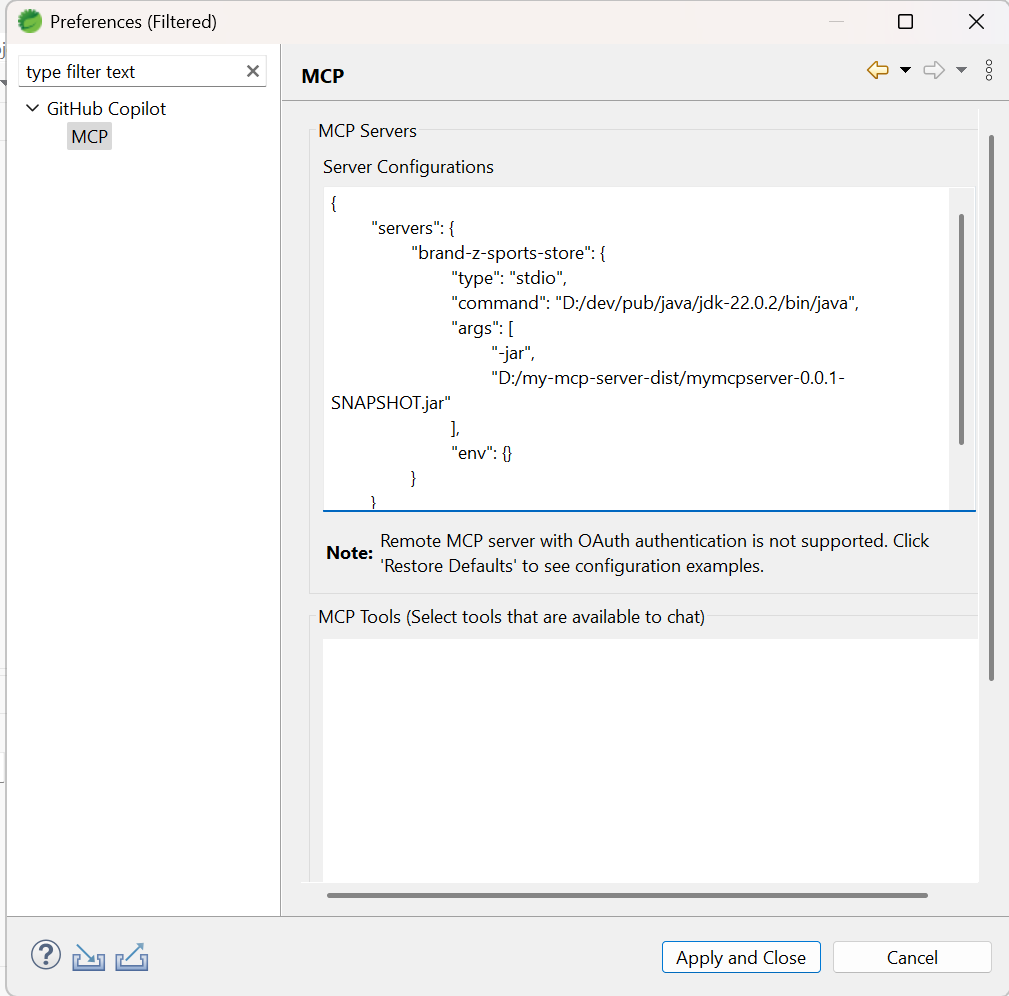
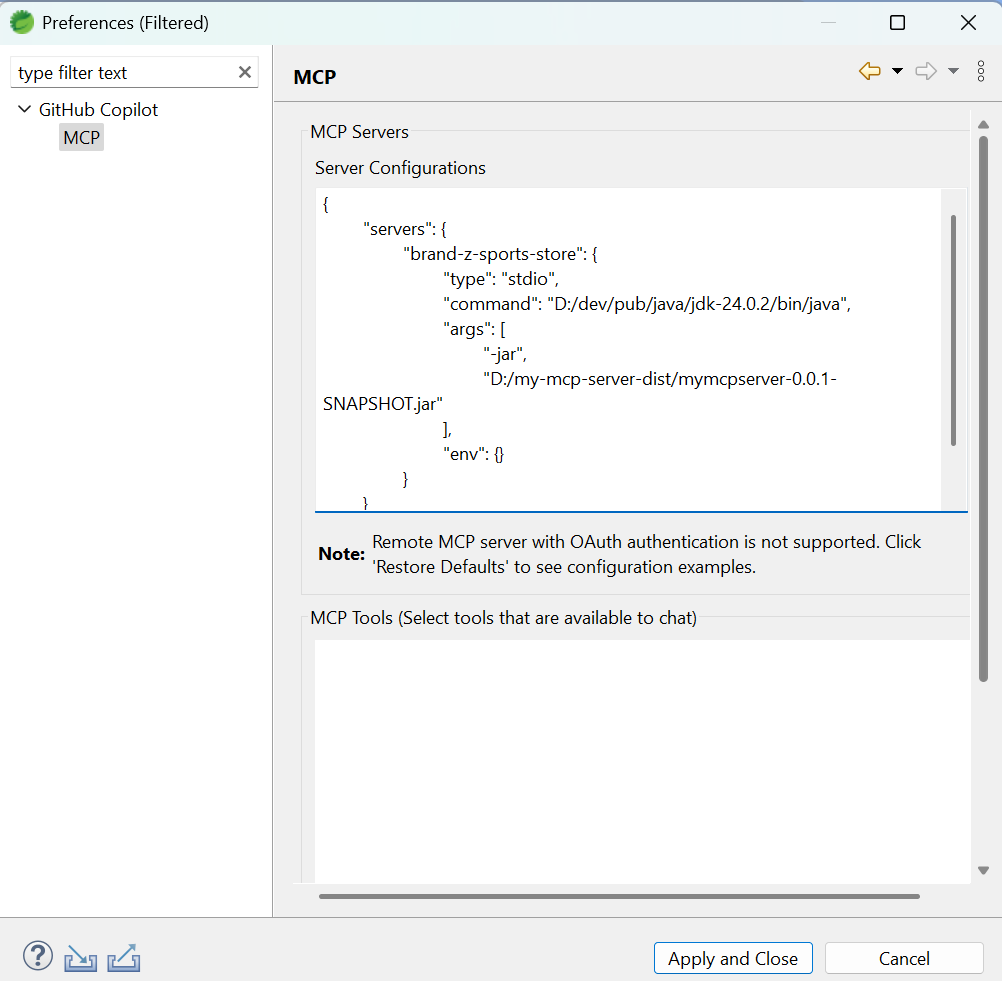
save

diff --git a/README.md b/README.md
@@ -659,7 +659,7 @@ Here search for "Github Copilot" and press the "Go" Button.
 <img src="images/market-place2.png" alt="Install Copilot" width="600"/>  
 Press the install button and carry out the remaining steps.   
 0.8.0 was the version available at the time of writing this.  
-0.9.2 is available now and behaves mostly the same for the purpose of this article.   
+0.9.3 is available now and behaves mostly the same for the purpose of this article.   
 
 #### Github Copilot eclipse plugin configuration
 
@@ -696,7 +696,7 @@ Let's change the configuration to
 }
 ```
 <img src="images/copilot-config2.png" alt="Edit MCP Server Configurations" width="600"/>  
-The image might show jdk 22 but It have upgrdaed my jdk to jdk 24 as shown in the json.   
+   
 
 
 Press "Apply and close" button.
